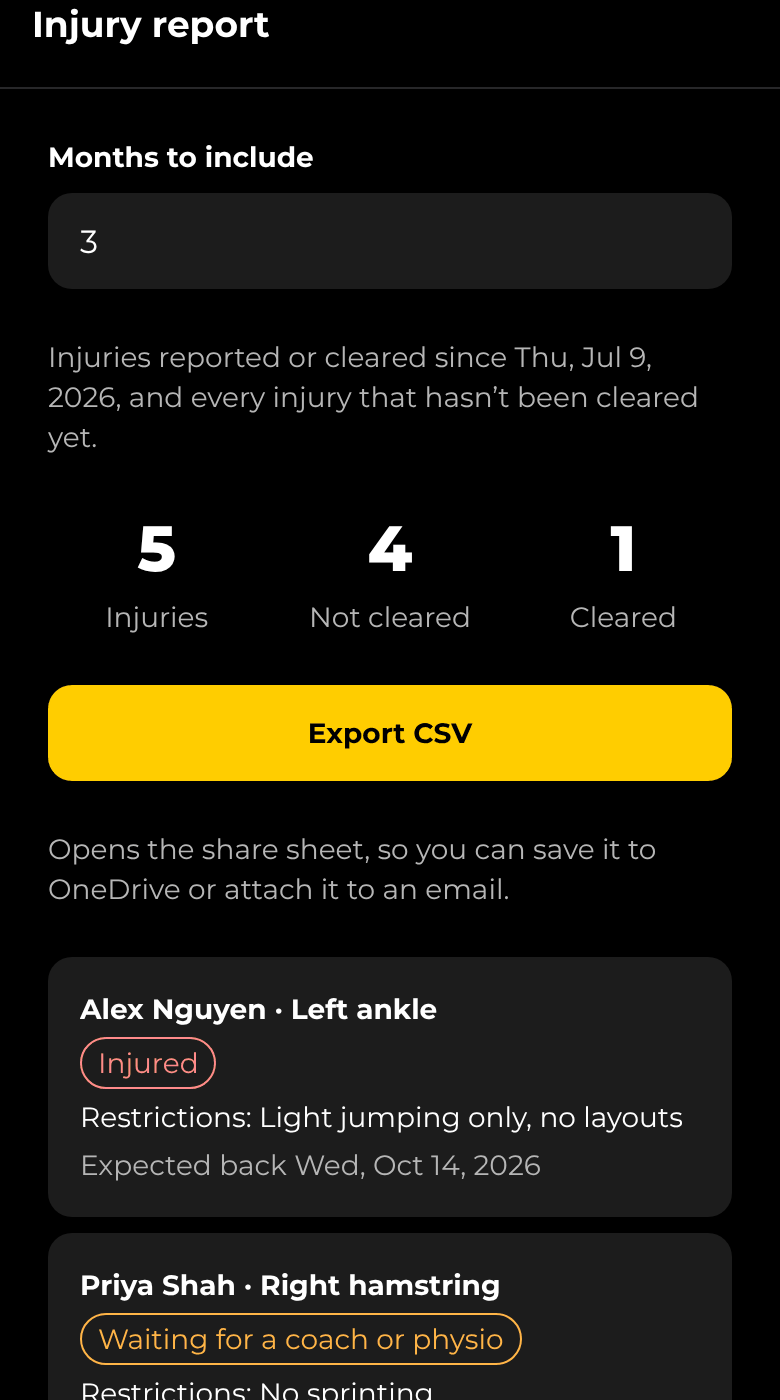
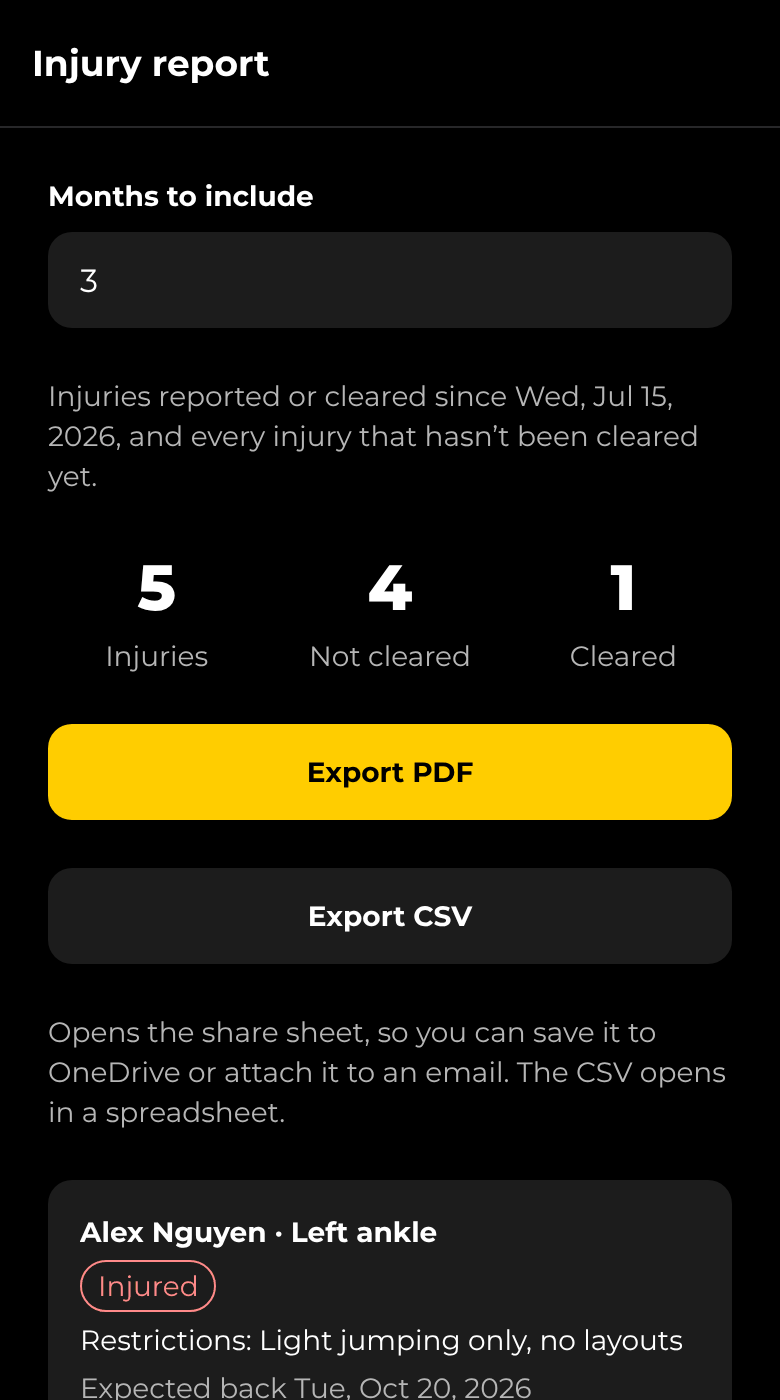
Injury report saves as a PDF as well as a CSV
Export PDF on the admin injury report uses the same PDF writer as the other
reports: injuries not yet cleared, then cleared, with restrictions, expected
return and who signed them off. It is also listed under Reports.

Claude-Session: https://claude.ai/code/session_01Hu5jq6uvf4NauB3C3UsL7C

diff --git a/src/lib/reports.ts b/src/lib/reports.ts
@@ -17,7 +17,7 @@ import {
 import { formatDate, isMinor } from '@/lib/age';
 import type { ConductStatus } from '@/lib/conduct';
 import type { ClubPolicies } from '@/lib/consents';
-import { formatDateString, toDateString } from '@/lib/injuries';
+import { formatDateString, injuryStatusLabels, toDateString } from '@/lib/injuries';
 import { rolesLabel } from '@/lib/labels';
 import type { Report, ReportRow, ReportSection } from '@/lib/pdf';
 import { hasRole, rolesOf } from '@/lib/roles';
@@ -35,6 +35,7 @@ import {
   wwccValidationLabels,
 } from '@/lib/safety';
 import type {
+  InjuryReportRow,
   Profile,
   SafeguardingContacts,
   ScreeningNotice,
@@ -1269,3 +1270,62 @@ export function affiliationReturn({
       'This return holds the club’s records and counts only. It names no member under 18 and has no details about any child. The primary contacts know their names and emails are shared.',
   };
 }
+
+// ---------------------------------------------------------------------------
+// Injuries
+// ---------------------------------------------------------------------------
+
+/** The admin injury report: injuries still open, then those cleared in the period. */
+export function injuryReport(rows: InjuryReportRow[], sinceDate: string): Report {
+  const columns = [
+    { label: 'Athlete', width: 1.3 },
+    { label: 'Injury', width: 1.3 },
+    { label: 'Injured on', width: 0.9 },
+    { label: 'Reported', width: 0.9 },
+    { label: 'Status', width: 1.2 },
+    { label: 'Restrictions', width: 1.8 },
+    { label: 'Expected back', width: 0.9 },
+    { label: 'Signed off by', width: 1.3 },
+  ];
+  const row = (r: InjuryReportRow): ReportRow => ({
+    cells: [
+      `${r.athlete_name ?? r.athlete_email ?? 'Unnamed member'}${r.athlete_left_at ? ' (left the club)' : ''}`,
+      r.body_area,
+      formatDate(r.injured_on),
+      formatDate(toDateString(new Date(r.reported_at))),
+      injuryStatusLabels[r.status],
+      r.restrictions ?? '',
+      formatDate(r.expected_return),
+      [
+        r.coach_endorsed_by_name ? `Endorsed: ${r.coach_endorsed_by_name}` : '',
+        r.cleared_by_name
+          ? `Cleared: ${r.cleared_by_name}${r.cleared_at ? `, ${formatDate(toDateString(new Date(r.cleared_at)))}` : ''}`
+          : '',
+      ]
+        .filter(Boolean)
+        .join('\n'),
+    ],
+  });
+  const byInjuredOn = (a: InjuryReportRow, b: InjuryReportRow) =>
+    b.injured_on.localeCompare(a.injured_on);
+  const open = rows.filter((r) => r.status !== 'cleared').sort(byInjuredOn);
+  const cleared = rows.filter((r) => r.status === 'cleared').sort(byInjuredOn);
+
+  return {
+    title: 'Injury report',
+    subtitle: `Injuries reported or cleared since ${formatDateString(sinceDate)}, and every injury not yet cleared`,
+    landscape: true,
+    stats: [
+      { label: 'Injuries', value: rows.length },
+      { label: 'Not cleared', value: open.length },
+      { label: 'Cleared', value: cleared.length },
+    ],
+    sections: [
+      { title: 'Not cleared', columns, rows: open.map(row), empty: 'No injuries waiting to be cleared.' },
+      { title: 'Cleared', columns, rows: cleared.map(row), empty: 'No injuries cleared in this period.' },
+    ],
+    footnote:
+      'Medical documents aren’t included. Open an injury in the app to see its updates and documents.',
+  };
+}
+

diff --git a/src/app/admin/injuries.tsx b/src/app/admin/injuries.tsx
@@ -15,6 +15,8 @@ import {
   toDateString,
 } from '@/lib/injuries';
 import { useClub } from '@/lib/club';
+import { reportPdf } from '@/lib/pdf';
+import { fileSlug, injuryReport, sharePdf } from '@/lib/reports';
 import { supabase } from '@/lib/supabase';
 import type { InjuryReportRow } from '@/lib/types';
 
@@ -51,6 +53,23 @@ export default function InjuryReportScreen() {
     setRefreshing(true);
     await load();
     setRefreshing(false);
+  }
+
+  async function exportPdf() {
+    if (!rows) return;
+    setExporting(true);
+    setError(null);
+    try {
+      const bytes = reportPdf(injuryReport(rows, sinceDate), {
+        clubName: club.name,
+        accent: club.colors.accent,
+      });
+      await sharePdf(`${fileSlug(club.shortName)}-injuries-${toDateString(new Date())}.pdf`, bytes);
+    } catch (e) {
+      setError(e instanceof Error ? e.message : 'The PDF didn’t save. Try again.');
+    } finally {
+      setExporting(false);
+    }
   }
 
   async function exportCsv() {
@@ -126,13 +145,20 @@ export default function InjuryReportScreen() {
       ) : null}
 
       <Button
-        title="Export CSV"
-        onPress={exportCsv}
+        title="Export PDF"
+        onPress={exportPdf}
         busy={exporting}
         disabled={!rows || rows.length === 0}
       />
+      <Button
+        title="Export CSV"
+        variant="secondary"
+        onPress={exportCsv}
+        disabled={exporting || !rows || rows.length === 0}
+      />
       <ThemedText type="small" themeColor="textSecondary">
-        Opens the share sheet, so you can save it to OneDrive or attach it to an email.
+        Opens the share sheet, so you can save it to OneDrive or attach it to an email. The CSV
+        opens in a spreadsheet.
       </ThemedText>
       <ErrorText>{error}</ErrorText>
 
@@ -175,8 +201,3 @@ const styles = StyleSheet.create({
     gap: Spacing.two,
   },
 });
-
-/** "Thunder" -> "thunder", for file names. */
-function fileSlug(name: string) {
-  return name.toLowerCase().replace(/[^a-z0-9]+/g, '-').replace(/^-|-$/g, '') || 'club';
-}

diff --git a/src/app/admin/reports/index.tsx b/src/app/admin/reports/index.tsx
@@ -37,6 +37,15 @@ export default function ReportsScreen() {
         </PressableCard>
       ) : null}
 
+      {features.injuries ? (
+        <PressableCard onPress={() => router.push('/admin/injuries')}>
+          <ThemedText type="smallBold">Injuries</ThemedText>
+          <ThemedText type="small" themeColor="textSecondary">
+            Injuries still open and those cleared recently, with who signed them off
+          </ThemedText>
+        </PressableCard>
+      ) : null}
+
       {features.attendance ? (
         <PressableCard onPress={() => router.push('/admin/reports/attendance')}>
           <ThemedText type="smallBold">Attendance</ThemedText>

diff --git a/src/app/administration.tsx b/src/app/administration.tsx
@@ -132,7 +132,7 @@ export default function AdministrationScreen() {
         <PressableCard onPress={() => router.push('/admin/injuries')}>
           <ThemedText type="smallBold">Injury report</ThemedText>
           <ThemedText type="small" themeColor="textSecondary">
-            Injuries and their status, with a CSV export
+            Injuries and their status, as a PDF or CSV
           </ThemedText>
         </PressableCard>
       ) : null}

diff --git a/docs/user-guide.md b/docs/user-guide.md
@@ -1644,8 +1644,11 @@ each copied course's squads and teams, then archive last season's courses once e
 ### Injury report
 
 **Injury report** lists injuries reported or cleared in the last few months (3 by default), plus
-every injury not yet cleared, with totals. **Export CSV** opens the share sheet so you can save it
-to OneDrive or attach it to an email.
+every injury not yet cleared, with totals. **Export PDF** saves it as a PDF, like the other
+[Reports](#reports): injuries not yet cleared first, then those cleared, with each one's
+restrictions, expected return and who endorsed and cleared it. Medical documents aren't included.
+**Export CSV** saves the same list for a spreadsheet. Both open the share sheet so you can save to
+OneDrive or attach to an email. It's also listed under **Reports**.
 
 <img src="user-guide/injury-report.png" width="210" alt="Injury report">
 
@@ -1681,6 +1684,7 @@ everyone ever stood down, newest first, with the
 - **Integrity training** (when Integrity training is on): pick the season. **Still to finish**
   lists everyone with a course not yet approved, in red if a due date has passed, then each course
   lists who must complete it, where they're up to, when they completed it and who checked it.
+- **Injuries** (when Injuries is on): opens the [Injury report](#injury-report).
 - **Attendance** (when Attendance is on): pick the **Period** (last 4 weeks, last 3 months, this
   season, or **Choose dates** for a from and to date) and the **Squads and teams**: **All**,
   **Whole club events**, or any squads and teams. A squad includes the teams named from it. Each
